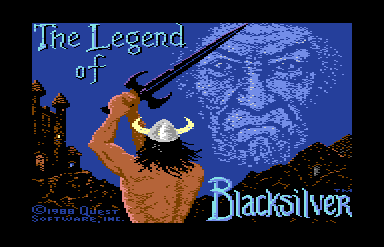
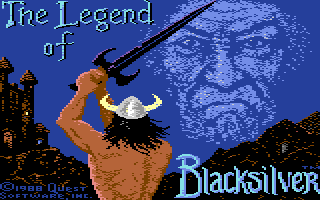
Fix LoB title screen.

diff --git a/LegacyOfTheAncients/MapExtenders/Outside/LotaOutsideEncounters.cs b/LegacyOfTheAncients/MapExtenders/Outside/LotaOutsideEncounters.cs
@@ -9,7 +9,6 @@ using Xle.Data;
 using Xle.Maps.Outdoors;
 using Xle.Services.Game;
 using Xle.Services.Menus;
-using Xle.Services.Rendering.Maps;
 using Xle.Services.ScreenModel;
 using Xle.Services.XleSystem;
 
@@ -24,7 +23,7 @@ namespace Xle.Ancients.MapExtenders.Outside
         private int monstCount;
         private int initMonstCount;
         private List<Monster> currentMonst = new List<Monster>();
-        
+
         public SolidColorScreenRenderer UnconsciousRenderer { get; set; }
 
         public XleData Data { get; set; }
@@ -117,7 +116,7 @@ namespace Xle.Ancients.MapExtenders.Outside
                 }
                 else
                 {
-                   await StartEncounter();
+                    await StartEncounter();
                 }
             }
             else if (EncounterState == EncounterState.UnknownCreatureApproaching)
@@ -130,7 +129,6 @@ namespace Xle.Ancients.MapExtenders.Outside
             {
                 await MonsterAppearing();
             }
-
         }
 
         private bool AllowBanditAmbush()
@@ -262,7 +260,7 @@ namespace Xle.Ancients.MapExtenders.Outside
             }
         }
 
-        List<Direction> validDirections = new List<Direction> { Direction.East, Direction.North, Direction.South, Direction.West };
+        private List<Direction> validDirections = new List<Direction> { Direction.East, Direction.North, Direction.South, Direction.West };
 
         protected void SetMonsterImagePosition()
         {
@@ -622,9 +620,9 @@ namespace Xle.Ancients.MapExtenders.Outside
                     colors[i] = XleColor.Cyan;
                 colors[0] = XleColor.White;
 
-               await TextArea.PrintLine();
-               await TextArea.PrintLine(monstCount.ToString() + " " + currentMonst[0].Name, colors);
-               await TextArea.PrintLine("Stands before you.");
+                await TextArea.PrintLine();
+                await TextArea.PrintLine(monstCount.ToString() + " " + currentMonst[0].Name, colors);
+                await TextArea.PrintLine("Stands before you.");
 
                 await GameControl.WaitAsync(1500);
             }
@@ -650,11 +648,11 @@ namespace Xle.Ancients.MapExtenders.Outside
                     }
                 }
 
-             await   TextArea.Print("Hits:  ", XleColor.White);
-             await   TextArea.Print(hits.ToString(), XleColor.Yellow);
-             await   TextArea.Print("   Damage:  ", XleColor.White);
-             await   TextArea.Print(dam.ToString(), XleColor.Yellow);
-             await   TextArea.PrintLine();
+                await TextArea.Print("Hits:  ", XleColor.White);
+                await TextArea.Print(hits.ToString(), XleColor.Yellow);
+                await TextArea.Print("   Damage:  ", XleColor.White);
+                await TextArea.Print(dam.ToString(), XleColor.Yellow);
+                await TextArea.PrintLine();
 
                 if (dam > 0)
                 {
@@ -666,7 +664,7 @@ namespace Xle.Ancients.MapExtenders.Outside
                 }
             }
 
-          await  GameControl.WaitAsync(250, keyBreak: !firstTime);
+            await GameControl.WaitAsync(250, keyBreak: !firstTime);
         }
 
         /// <summary>

diff --git a/LegendOfBlacksilver/TitleScreen/LobTitleScene.cs b/LegendOfBlacksilver/TitleScreen/LobTitleScene.cs
@@ -68,6 +68,8 @@ namespace Xle.Blacksilver.TitleScreen
         {
             base.DrawScene(time);
 
+            graphics.Clear(XleColor.Black);
+
             spriteBatch.Begin(transformMatrix: Matrix.CreateTranslation(20, 20, 0));
 
             spriteBatch.Draw(title, new Rectangle(0, 0, 640, 400), Color.White);
